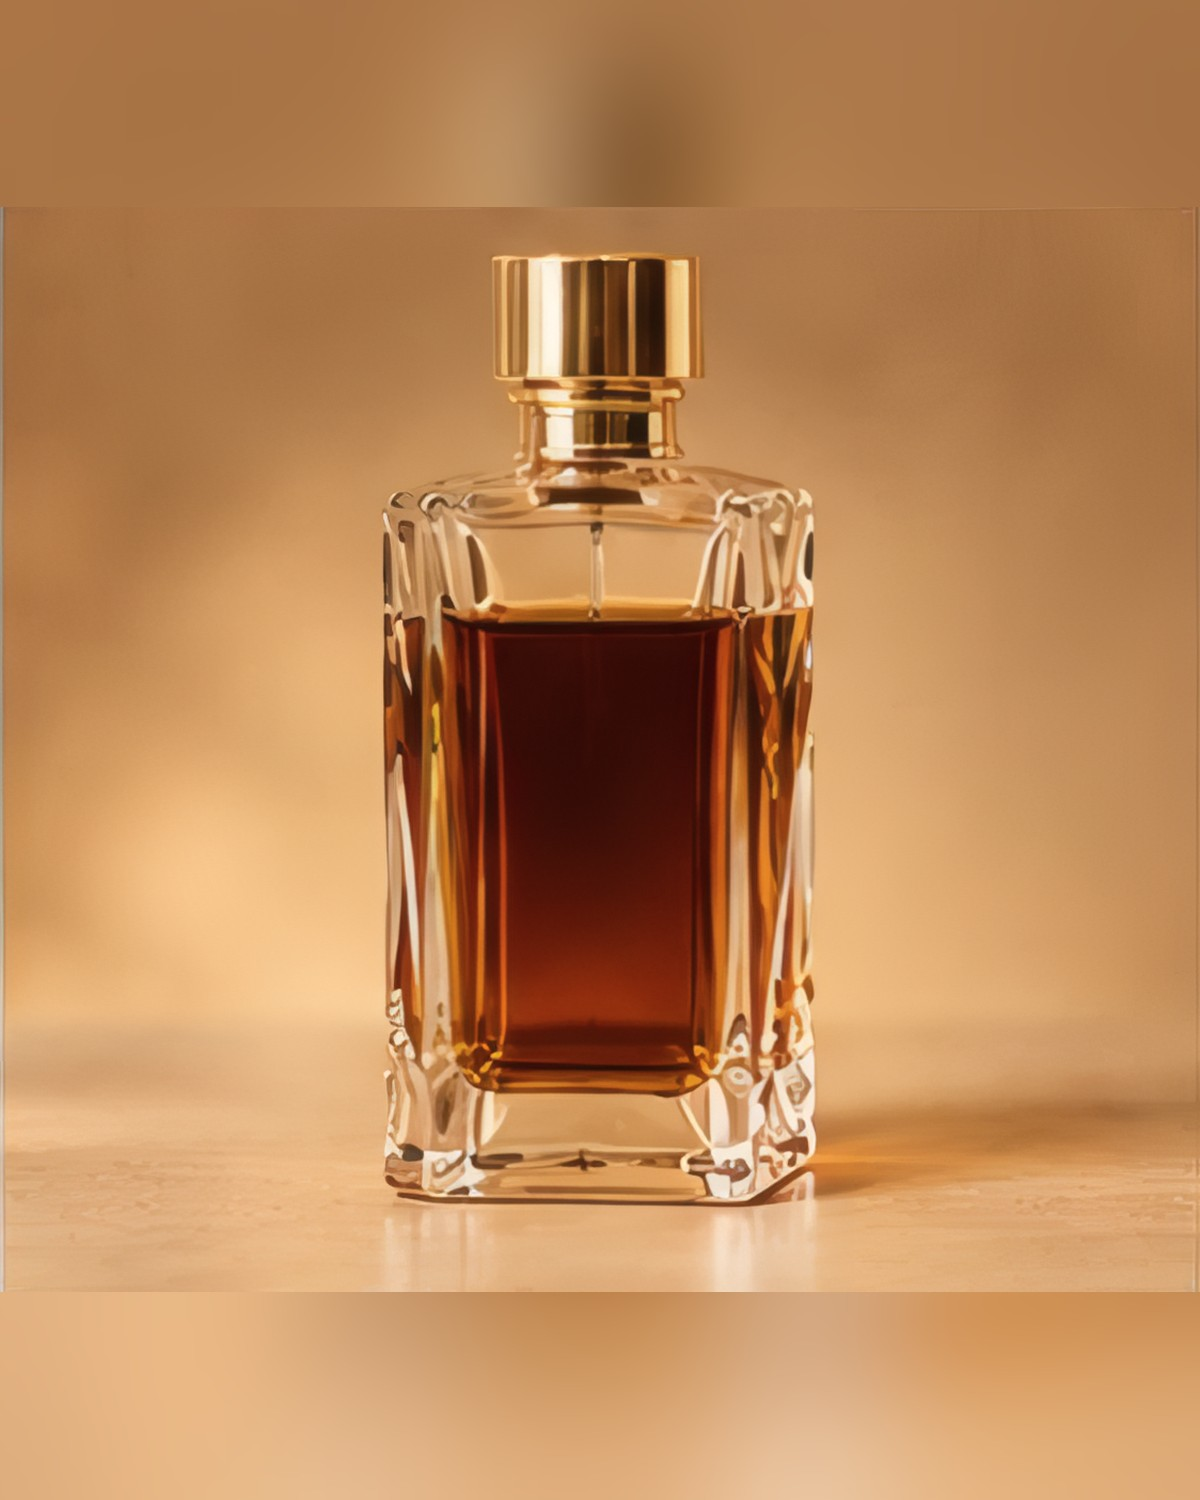
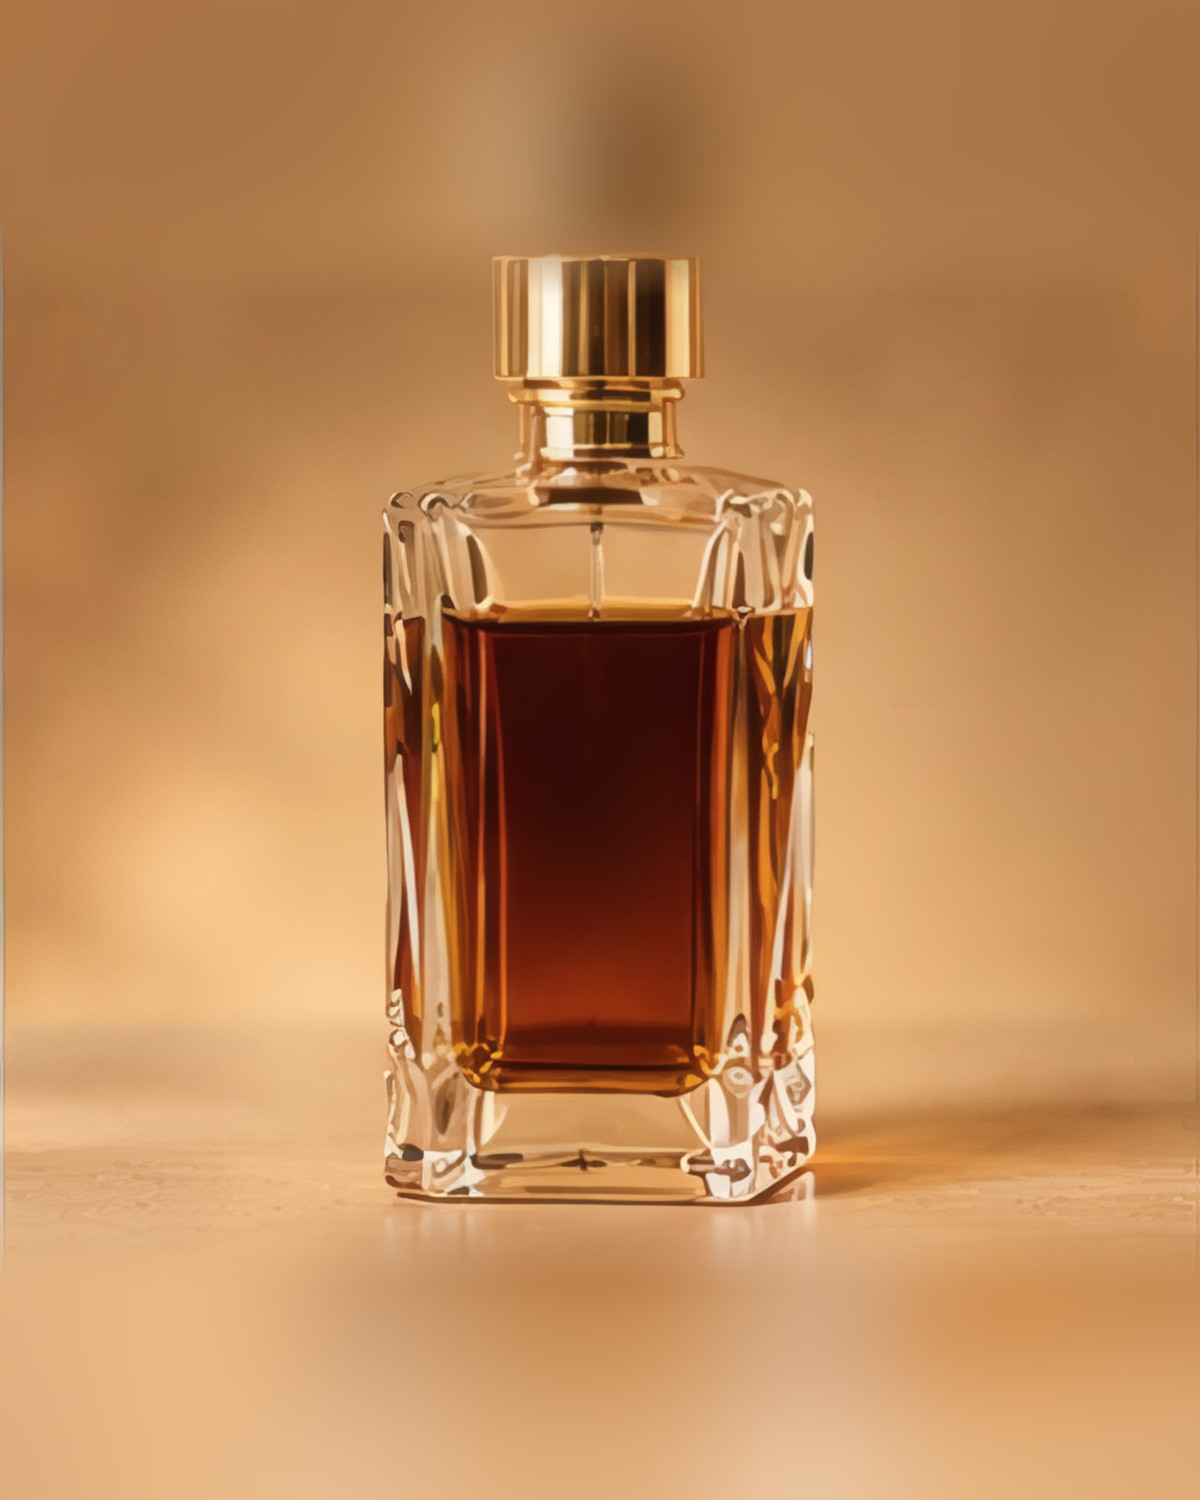
Refine photo hover effects and add ambergris disclaimer wording
- Product cards: slow subtle zoom, bottom scrim and frosted add-to-bag button for photos
- Home collection cards: full-bleed photo cards with gradient and zoom on hover
- Feather the join between sharp and blurred areas in the wide product photos
- Trim the border from oil-cambodia and upscale it
- Add the not-responsible disclaimer to the ambergris notice and checkout tick box

diff --git a/src/index.css b/src/index.css
@@ -3543,3 +3543,101 @@ fieldset {
   opacity: 0.5;
   cursor: not-allowed;
 }
+
+/* ---------- Photo hover (product cards) ---------- */
+/* Photos get a slow, subtle zoom instead of the lift-and-tilt used for drawn bottles. */
+.pcard-bottle.art-photo {
+  transform-origin: 50% 55%;
+  transition: transform 1.1s cubic-bezier(0.22, 0.61, 0.36, 1);
+  will-change: transform;
+}
+.pcard:hover .pcard-bottle.art-photo,
+.pcard:focus-within .pcard-bottle.art-photo {
+  transform: scale(1.045);
+}
+/* soft scrim so the button reads over any photo */
+.pcard-stage:has(.art-photo)::after {
+  content: '';
+  position: absolute;
+  inset: 0;
+  z-index: 1;
+  background: linear-gradient(to top, rgba(18, 12, 7, 0.46) 0%, rgba(18, 12, 7, 0.12) 30%, transparent 52%);
+  opacity: 0;
+  transition: opacity 0.6s ease;
+  pointer-events: none;
+}
+.pcard:hover .pcard-stage:has(.art-photo)::after,
+.pcard:focus-within .pcard-stage:has(.art-photo)::after {
+  opacity: 1;
+}
+/* frosted button */
+.pcard-stage:has(.art-photo) .pcard-add {
+  background: rgba(255, 252, 246, 0.9);
+  color: #17110b;
+  -webkit-backdrop-filter: blur(10px);
+  backdrop-filter: blur(10px);
+  box-shadow: 0 6px 20px rgba(0, 0, 0, 0.18);
+  transition: transform 0.55s cubic-bezier(0.22, 0.61, 0.36, 1) 0.04s, opacity 0.4s ease 0.04s, background-color 0.3s, color 0.3s;
+}
+.pcard-stage:has(.art-photo) .pcard-add:hover {
+  background: #17110b;
+  color: #f4eee3;
+}
+@media (prefers-reduced-motion: reduce) {
+  .pcard-bottle.art-photo,
+  .pcard-stage:has(.art-photo)::after {
+    transition: none;
+  }
+  .pcard:hover .pcard-bottle.art-photo {
+    transform: none;
+  }
+}
+
+/* ---------- Photo hover (home collection cards) ---------- */
+/* With photography the card is a full-bleed image with the title over a soft gradient. */
+.bento .bento-card .bento-link .art-photo.bento-bottle {
+  position: absolute;
+  inset: 0;
+  top: 0;
+  right: 0;
+  left: 0;
+  width: 100%;
+  height: 100%;
+  aspect-ratio: auto;
+  border-radius: 0;
+  object-fit: cover;
+  object-position: 50% 55%;
+  z-index: -2;
+  transform: none;
+  transition: transform 1.2s cubic-bezier(0.22, 0.61, 0.36, 1);
+}
+.bento .bento-card .bento-link:hover .art-photo.bento-bottle {
+  transform: scale(1.05);
+}
+.bento-link:has(.art-photo)::before {
+  z-index: -1;
+  background: linear-gradient(to top, rgba(14, 9, 5, 0.84) 0%, rgba(14, 9, 5, 0.4) 38%, rgba(14, 9, 5, 0.04) 70%);
+}
+.bento-link:has(.art-photo):hover {
+  transform: none;
+}
+.bento-link:has(.art-photo) .bento-text .eyebrow {
+  color: rgba(251, 243, 227, 0.78);
+}
+.bento-link:has(.art-photo) .bento-text h3 {
+  color: #fbf3e3;
+}
+.bento-link:has(.art-photo) .bento-text p {
+  color: rgba(251, 243, 227, 0.82);
+}
+.bento .bento-card .bento-link:has(.art-photo) .bento-text {
+  max-width: 100%;
+}
+@media (prefers-reduced-motion: reduce) {
+  .bento .bento-card .bento-link .art-photo.bento-bottle {
+    transition: none;
+  }
+  .bento .bento-card .bento-link:hover .art-photo.bento-bottle {
+    transform: none;
+  }
+}

diff --git a/src/data/ambergris.js b/src/data/ambergris.js
@@ -84,6 +84,6 @@ export const isAmbergris = (p) => p.type === 'Ambergris';
 export const AMBERGRIS_LEGAL = {
   title: 'Legal notice: ambergris',
   short: 'Ambergris is restricted or illegal to carry, import, export or sell in some countries.',
-  text: 'Ambergris comes from sperm whales, and some countries restrict or ban buying, owning, carrying, importing or exporting it, including the United States, Australia and India. Carrying it across a border, even in a small amount or as part of a blend or tincture, can mean seizure, fines or prosecution. We deliver within the UAE only. Check the law of every country you will travel to or ship to before you buy, and do not take it abroad unless you are sure it is allowed.',
-  confirm: 'I understand this notice. I am buying ambergris for use in the UAE and I will follow the laws of any country I carry it to.',
+  text: 'Ambergris comes from sperm whales, and some countries restrict or ban buying, owning, carrying, importing or exporting it, including the United States, Australia and India. Carrying it across a border, even in a small amount or as part of a blend or tincture, can mean seizure, fines or prosecution. We deliver within the UAE only. Reem Al Khaleej Perfumes is not responsible for any seizure, fine, delay or other consequence of carrying, shipping, importing or exporting it outside the UAE. Checking and following the laws of each country is the buyer’s responsibility.',
+  confirm: 'I understand this notice. I am buying ambergris for use in the UAE only, and I accept that Reem Al Khaleej Perfumes is not responsible for any seizure, fine, delay or other consequence of carrying, shipping, importing or exporting it outside the UAE.',
 };
